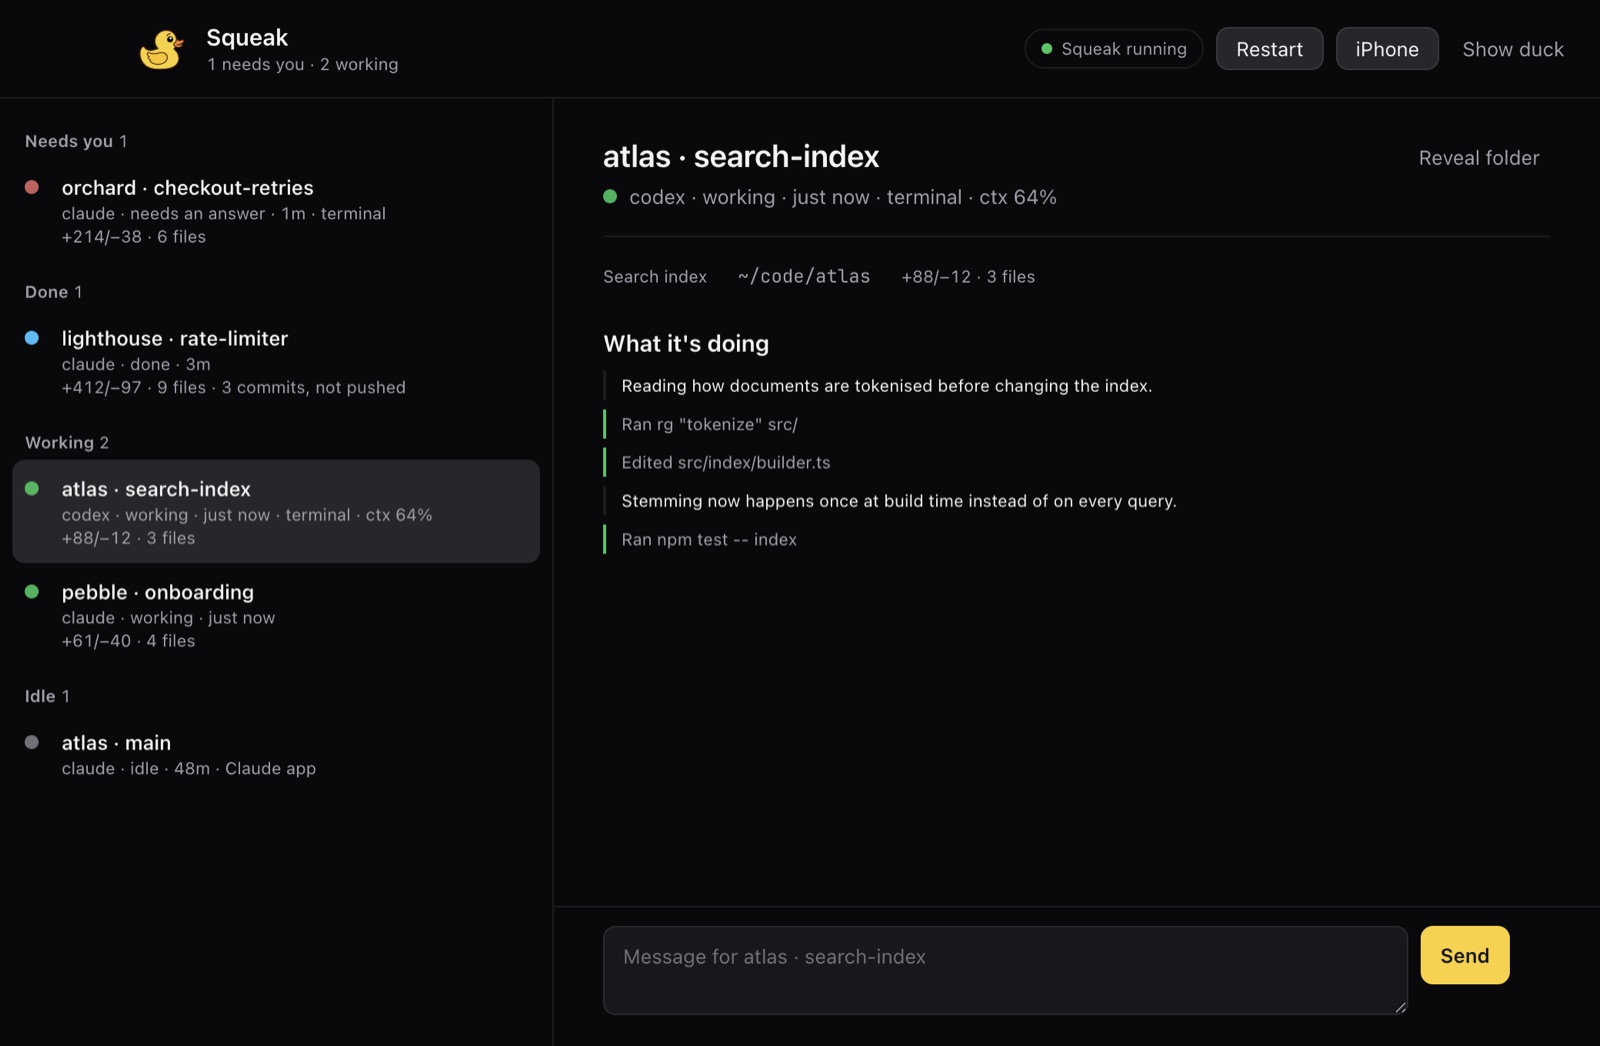
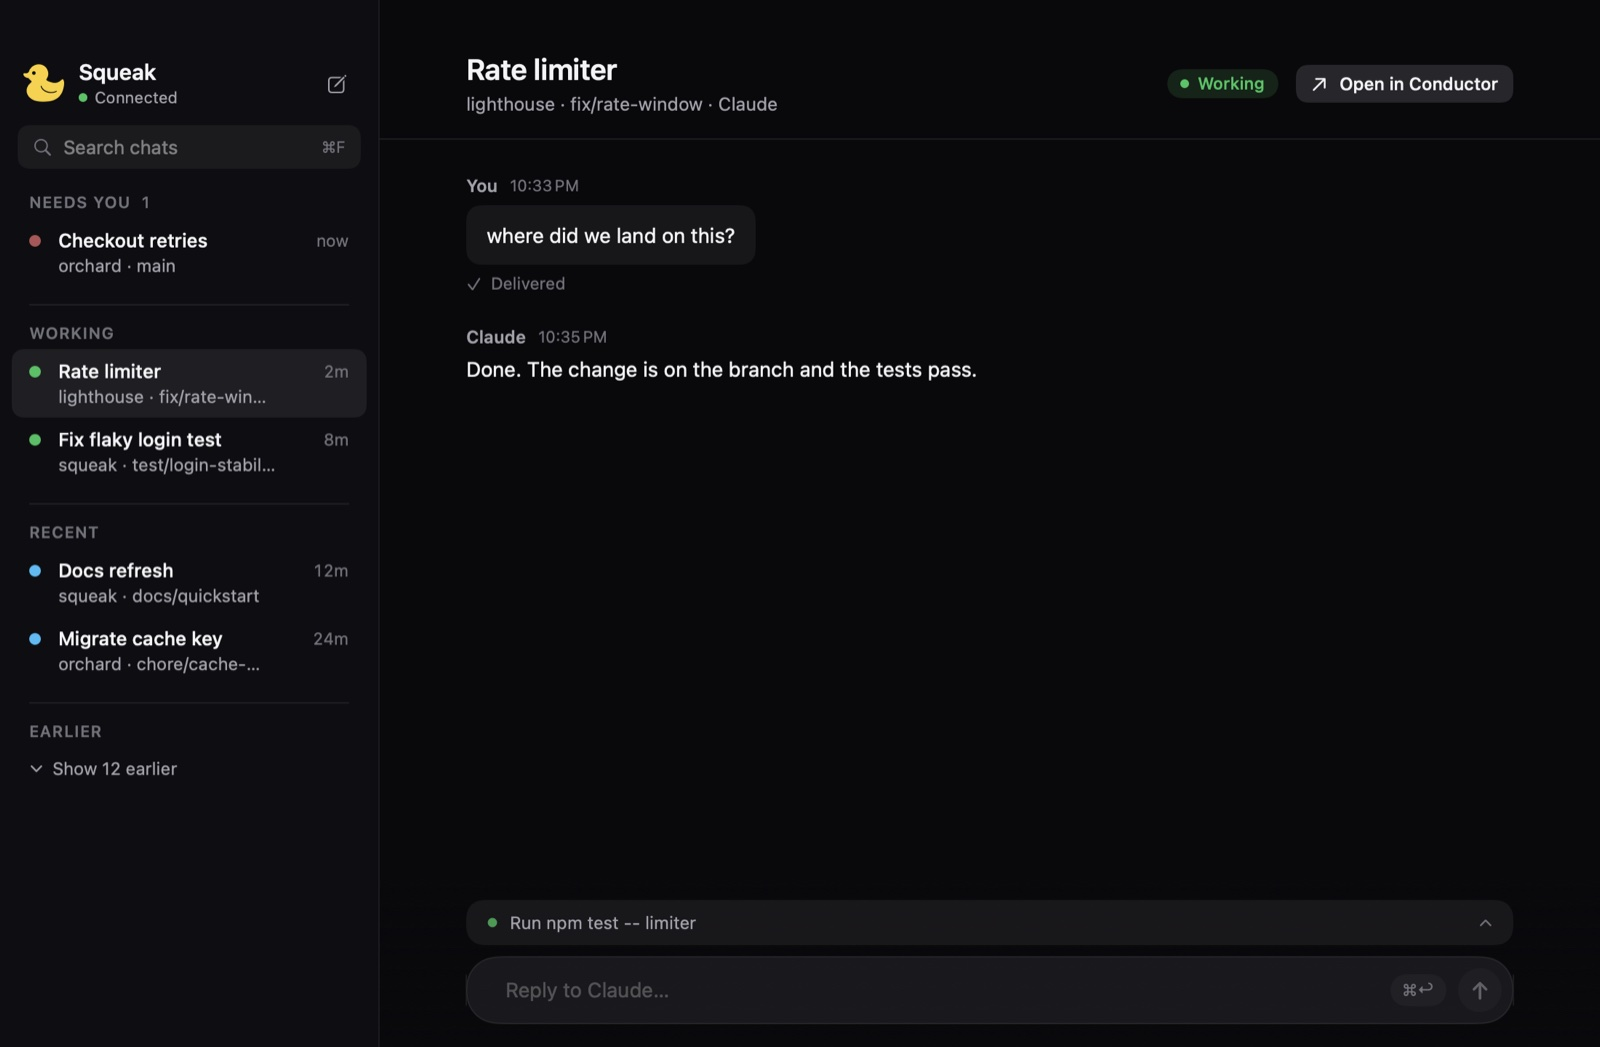
Squeak: 2.0.1 download and new window screenshots

diff --git a/squeak/index.html b/squeak/index.html
@@ -221,9 +221,9 @@
       <h1>A pager for your coding agents. With a&nbsp;<em>duck</em>.</h1>
       <p class="lede">Squeak watches every Claude Code and Codex session on your Mac, tells you which ones need you, and lets you answer from your Mac, your iPhone or Telegram.</p>
       <div class="ctas">
-        <a class="btn primary" href="https://github.com/Sibhimanyu/squeak/releases/download/v2.0.0/Squeak-2.0.0.dmg">Download for Mac</a>
+        <a class="btn primary" href="https://github.com/Sibhimanyu/squeak/releases/download/v2.0.1/Squeak-2.0.1.dmg">Download for Mac</a>
         <a class="btn secondary" href="#how">See how it works</a>
-        <span class="note">v2.0.0 · macOS 14+ · Apple silicon</span>
+        <span class="note">v2.0.1 · macOS 14+ · Apple silicon</span>
       </div>
       <div class="states" aria-label="The five states Squeak shows">
         <span class="st"><span class="dot pulse" style="--c:var(--needs);--p:1s"></span>needs you</span>
@@ -291,7 +291,7 @@
     <p class="sub">The window is the whole picture: what each agent said, what changed on disk, roughly what it cost, and a place to answer it.</p>
     <figure class="shot" style="margin-left:0;margin-right:0">
       <div class="bar" aria-hidden="true"><i></i><i></i><i></i></div>
-      <img src="assets/window-decision.jpg" width="1600" height="1046" loading="lazy" alt="The Squeak window. On the left, sessions grouped as Needs you, Done, Working and Idle. On the right, orchard · checkout-retries asks what happens when a card is declined twice, with options A, B and C as buttons, A marked recommended, and a message box with a yellow Send button." />
+      <img src="assets/window-decision.jpg" width="1600" height="1047" loading="lazy" alt="The Squeak window. On the left, chats grouped as Needs you, Working, Recent and Earlier. On the right, Checkout retries asks whether to retry card declines or stop after one attempt, with answers A and B as buttons under the question and a reply box below." />
     </figure>
     <div class="caps">
       <p><b>The agent's own words</b>Its last message in full, not a summary we wrote for it.</p>
@@ -302,7 +302,7 @@
     <div class="pair">
       <figure class="shot" style="margin:0">
         <div class="bar" aria-hidden="true"><i></i><i></i><i></i></div>
-        <img src="assets/window-doing.jpg" width="1600" height="1046" loading="lazy" alt="The Squeak window showing atlas · search-index, a Codex session at work. Under What it's doing: reading how documents are tokenised, ran rg, edited src/index/builder.ts, a note about stemming, ran npm test." />
+        <img src="assets/window-doing.jpg" width="1600" height="1047" loading="lazy" alt="The Squeak window with a chat at work: a quiet What it\'s doing line above the reply box shows the step the agent is on." />
       </figure>
       <div>
         <h3 style="font-size:1.5rem;letter-spacing:-.025em">What it's doing, step by step.</h3>
@@ -381,13 +381,13 @@
   <div class="wrap">
     <p class="kicker">Install</p>
     <h2>Drag it to Applications.</h2>
-    <p class="sub">Squeak 2.0.0 for Mac, as a disk image. It is free and ad-hoc signed rather than notarized, so macOS asks once before the first launch.</p>
-    <div class="ctas"><a class="btn primary" href="https://github.com/Sibhimanyu/squeak/releases/download/v2.0.0/Squeak-2.0.0.dmg">Download Squeak-2.0.0.dmg</a><a class="btn secondary" href="https://github.com/Sibhimanyu/squeak/releases/latest">All releases</a></div>
+    <p class="sub">Squeak 2.0.1 for Mac, as a disk image. It is free and ad-hoc signed rather than notarized, so macOS asks once before the first launch.</p>
+    <div class="ctas"><a class="btn primary" href="https://github.com/Sibhimanyu/squeak/releases/download/v2.0.1/Squeak-2.0.1.dmg">Download Squeak-2.0.1.dmg</a><a class="btn secondary" href="https://github.com/Sibhimanyu/squeak/releases/latest">All releases</a></div>
     <div class="steps">
       <div class="step">
         <div class="num">1</div>
         <h3>Open the disk image</h3>
-        <p>Open <code>Squeak-2.0.0.dmg</code> from your Downloads and drag <strong>Squeak</strong> onto <strong>Applications</strong>.</p>
+        <p>Open <code>Squeak-2.0.1.dmg</code> from your Downloads and drag <strong>Squeak</strong> onto <strong>Applications</strong>.</p>
       </div>
       <div class="step">
         <div class="num">2</div>
@@ -400,7 +400,7 @@
         <p>Squeak lives in the menu bar. It lists your Conductor chats and their history on its own; answering them also needs the Squeak service running on the Mac.</p>
       </div>
     </div>
-    <p class="note" style="margin-top:22px">SHA-256: <code>d608584f64038601a47231a8f2c11175229bb7cf8a9d0eb75f03ed67a980d6c7</code><br />Check it with <code>shasum -a 256 ~/Downloads/Squeak-2.0.0.dmg</code></p>
+    <p class="note" style="margin-top:22px">SHA-256: <code>9116da8e7557f3b82dd0dc524e2fd3177dd472c9650c597eb88445b11a3fcec8</code><br />Check it with <code>shasum -a 256 ~/Downloads/Squeak-2.0.1.dmg</code></p>
   </div>
 </section>
 
@@ -409,7 +409,7 @@
     <img src="assets/duck-working.png" width="240" height="240" alt="" loading="lazy" />
     <h2>Quiet until it matters.</h2>
     <p class="sub">Squeak runs on macOS, with an iPhone app alongside.</p>
-    <div class="ctas"><a class="btn primary" href="https://github.com/Sibhimanyu/squeak/releases/download/v2.0.0/Squeak-2.0.0.dmg">Download for Mac</a><a class="btn secondary" href="https://sibhimanyu.github.io/">More projects</a></div>
+    <div class="ctas"><a class="btn primary" href="https://github.com/Sibhimanyu/squeak/releases/download/v2.0.1/Squeak-2.0.1.dmg">Download for Mac</a><a class="btn secondary" href="https://sibhimanyu.github.io/">More projects</a></div>
   </div>
 </section>
 </main>
